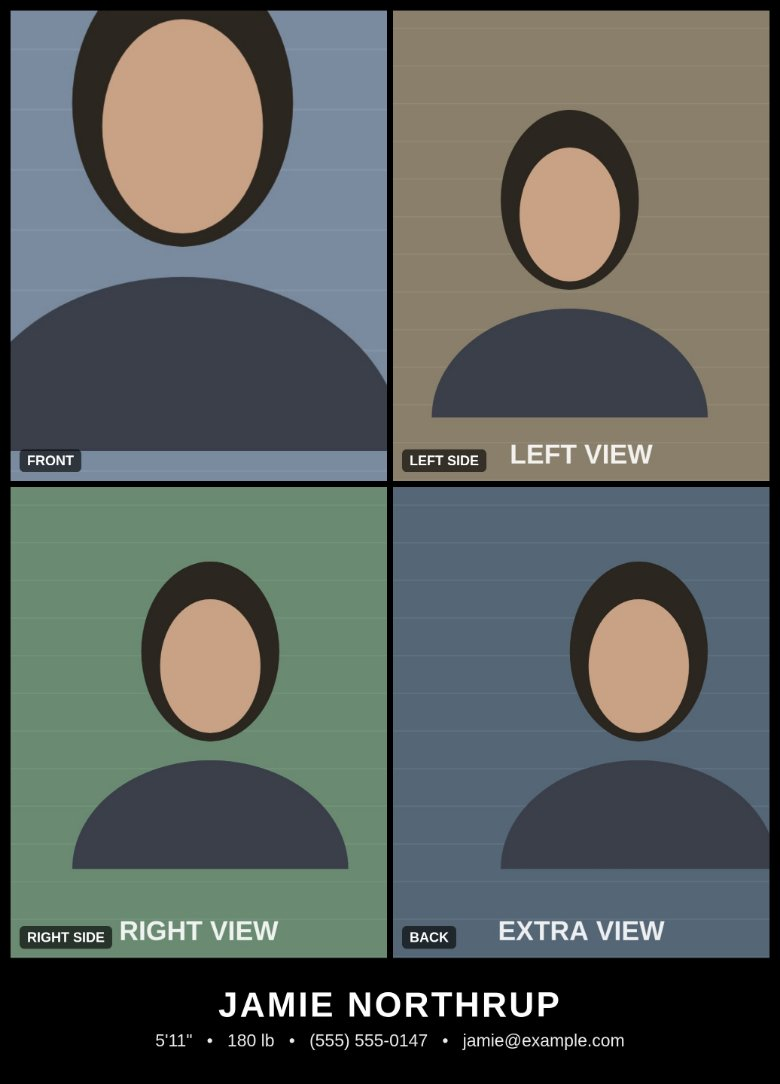
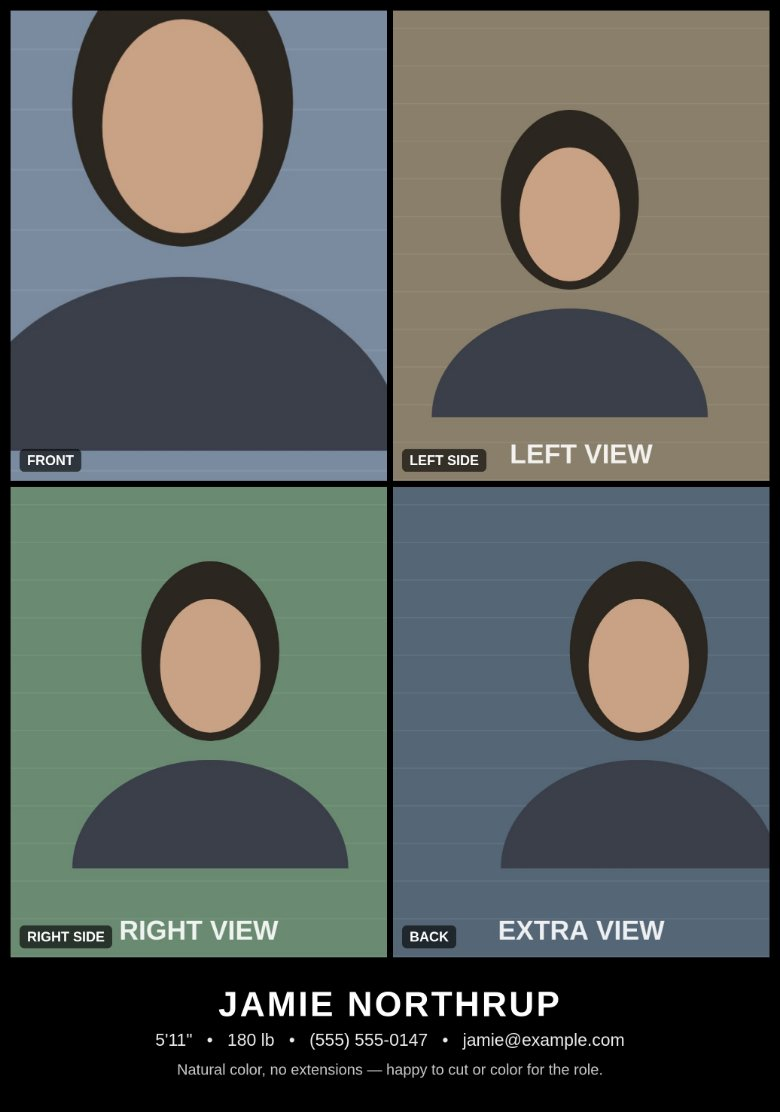
Add an optional short note to the sheet
A 140-character note field under the performer details, printed as a
third line in the black band below the photos — smaller and slightly
dimmer than the contact line, wrapping to a second line when needed
(ellipsized past that), with the band growing to fit.

The note belongs to the sheet rather than the person: it is kept out of
the profile fields, so a coordinator switching performers doesn't lose
what they typed, and it isn't persisted to the stored profile.

Adds word-wrap helpers to the composer, including hard-splitting of
words too long for one line.

Claude-Session: https://claude.ai/code/session_01GL7K5xWzgphC4TWdVwzMtx

diff --git a/public/js/composer.js b/public/js/composer.js
@@ -137,6 +137,58 @@ window.Composer = (function () {
     }
   }
 
+  /* Hard-split a word that is wider than the line all by itself. */
+  function splitLongWord(ctx, word, maxWidth) {
+    var parts = [];
+    var cur = '';
+    for (var i = 0; i < word.length; i++) {
+      var test = cur + word.charAt(i);
+      if (cur && ctx.measureText(test).width > maxWidth) {
+        parts.push(cur);
+        cur = word.charAt(i);
+      } else {
+        cur = test;
+      }
+    }
+    if (cur) parts.push(cur);
+    return parts;
+  }
+
+  /*
+   * Greedy word wrap at the current ctx.font, capped at maxLines.
+   * If the text still doesn't fit, the last line is ellipsized.
+   */
+  function wrapText(ctx, text, maxWidth, maxLines) {
+    var words = [];
+    String(text).split(/\s+/).filter(Boolean).forEach(function (w) {
+      if (ctx.measureText(w).width <= maxWidth) words.push(w);
+      else words.push.apply(words, splitLongWord(ctx, w, maxWidth));
+    });
+
+    var lines = [];
+    var cur = '';
+    words.forEach(function (w) {
+      var test = cur ? cur + ' ' + w : w;
+      if (!cur || ctx.measureText(test).width <= maxWidth) {
+        cur = test;
+      } else {
+        lines.push(cur);
+        cur = w;
+      }
+    });
+    if (cur) lines.push(cur);
+
+    if (lines.length <= maxLines) return lines;
+
+    lines = lines.slice(0, maxLines);
+    var last = lines[maxLines - 1];
+    while (last && ctx.measureText(last + '…').width > maxWidth) {
+      last = last.slice(0, -1).replace(/\s+$/, '');
+    }
+    lines[maxLines - 1] = last + '…';
+    return lines;
+  }
+
   /*
    * Build the final sheet. Returns a canvas:
    *   ┌─────────┬─────────┐
@@ -146,6 +198,7 @@ window.Composer = (function () {
    *   ├─────────────────────┤
    *   │  NAME               │  ← white on black, below the photos
    *   │  h • w • ph • email │
+   *   │  optional note      │
    *   └─────────────────────┘
    */
   function compose(slots, person, opts) {
@@ -192,16 +245,35 @@ window.Composer = (function () {
       }
     }
 
+    /* optional short note, wrapped to at most two lines */
+    var noteText = ((person && person.note) || '').trim().replace(/\s+/g, ' ');
+    var noteSize = 0;
+    var noteLines = [];
+    var noteW = Math.min(maxTextW, Math.round(W * 0.84));
+    if (noteText) {
+      noteSize = Math.round(CW * 0.040);
+      scratch.font = '400 ' + noteSize + 'px ' + FONT_STACK;
+      noteLines = wrapText(scratch, noteText, noteW, 2);
+    }
+
     var gapTop = Math.round(CW * 0.085);
     var gapBottom = Math.round(CW * 0.09);
     var lineGap = Math.round(CW * 0.022);
+    var noteGap = Math.round(CW * 0.036);
+    var noteLineGap = Math.round(noteSize * 0.34);
     var infoH = gapTop + gapBottom;
     if (nameSize) infoH += nameSize;
     if (nameSize && detailLines.length) infoH += lineGap;
     detailLines.forEach(function (l, i) {
       infoH += l.size + (i > 0 ? lineGap : 0);
     });
-    if (!nameSize && !detailLines.length) infoH = Math.round(CW * 0.04);
+    if (noteLines.length) {
+      if (nameSize || detailLines.length) infoH += noteGap;
+      noteLines.forEach(function (_, i) {
+        infoH += noteSize + (i > 0 ? noteLineGap : 0);
+      });
+    }
+    if (!nameSize && !detailLines.length && !noteLines.length) infoH = Math.round(CW * 0.04);
 
     var H = M + gridH + infoH;
 
@@ -267,6 +339,17 @@ window.Composer = (function () {
       ctx.fillText(l.text, W / 2, ty);
       ty += l.size;
     });
+
+    if (noteLines.length) {
+      if (nameSize || detailLines.length) ty += noteGap;
+      ctx.font = '400 ' + noteSize + 'px ' + FONT_STACK;
+      ctx.fillStyle = 'rgba(255,255,255,0.78)';
+      noteLines.forEach(function (line, i) {
+        if (i > 0) ty += noteLineGap;
+        ctx.fillText(line, W / 2, ty);
+        ty += noteSize;
+      });
+    }
 
     return canvas;
   }

diff --git a/public/js/app.js b/public/js/app.js
@@ -62,13 +62,19 @@
   var resultBox = $('#result');
   var resultImg = $('#result-img');
   var downloadLink = $('#download-link');
+  var noteInput = $('#f-note');
+  var noteCount = $('#note-count');
 
   var cells = {};          // key → { root, canvas, guide, dragDepth }
   var pendingSlot = null;  // slot waiting on the single-file picker
   var dragSourceKey = null;
   var resultUrl = null;
 
+  /* Profile fields — driven by the session user or a coordinator's pick.
+     The note is deliberately not one of them: it belongs to the sheet, not
+     the person, so switching performers leaves it alone. */
   var FIELDS = ['name', 'height', 'weight', 'phone', 'email'];
+  var NOTE_MAX = 140;
 
   /* ── photo grid ──────────────────────────────────────────────── */
 
@@ -433,6 +439,19 @@
     return o;
   }
 
+  /* Everything that gets printed on the sheet: profile fields plus the note. */
+  function readSheet() {
+    var o = readForm();
+    o.note = noteInput.value.trim();
+    return o;
+  }
+
+  function updateNoteCount() {
+    var used = noteInput.value.length;
+    noteCount.textContent = used ? used + ' / ' + NOTE_MAX : '';
+    noteCount.classList.toggle('near-limit', used > NOTE_MAX - 20);
+  }
+
   var persistProfile = debounce(function () {
     if (Api.isDemo && !state.performer) {
       Api.saveLocalProfile(Object.assign({ id: 'demo-me' }, readForm()));
@@ -637,7 +656,7 @@
   }
 
   function doCreate() {
-    var person = readForm();
+    var person = readSheet();
     var missing = SLOT_DEFS.filter(function (d) { return !state.slots[d.key]; });
 
     if (missing.length === 4) {
@@ -738,6 +757,9 @@
       if (!state.performer) state.me = Object.assign({}, state.me, readForm());
       persistProfile();
     });
+
+    noteInput.addEventListener('input', updateNoteCount);
+    updateNoteCount();
 
     createBtn.addEventListener('click', doCreate);
     $('#back-to-edit').addEventListener('click', function () {

diff --git a/public/css/styles.css b/public/css/styles.css
@@ -363,6 +363,16 @@ input:focus-visible, select:focus-visible, .btn:focus-visible {
 .field-wide { grid-column: 1 / -1; }
 .field label { font-size: 12.5px; font-weight: 600; color: var(--muted); }
 
+.field-opt { font-weight: 400; color: #6b7280; }
+
+.char-count {
+  justify-self: end;
+  font-size: 11.5px;
+  color: #6b7280;
+  font-variant-numeric: tabular-nums;
+}
+.char-count.near-limit { color: var(--warn); }
+
 /* ── Coordinator box ─────────────────────────────────────────────── */
 
 #coordinator-box { margin-top: 18px; }

diff --git a/public/index.html b/public/index.html
@@ -98,6 +98,14 @@
         <label for="f-email">Email</label>
         <input id="f-email" name="email" type="email" placeholder="you@example.com">
       </div>
+      <div class="field field-wide">
+        <label for="f-note">
+          Note <span class="field-opt">optional — a short line under your details</span>
+        </label>
+        <input id="f-note" name="note" type="text" maxlength="140"
+               placeholder="e.g. Natural color, no extensions — can cut or color">
+        <span class="char-count" id="note-count"></span>
+      </div>
     </form>
 
     <div id="coordinator-box"></div>

diff --git a/README.md b/README.md
@@ -21,6 +21,10 @@ JPEG.
   overlaid. What you see in the editor is exactly what's exported.
 - **Details bar** — name, height, weight, phone and email printed as white text on the black
   band *below* the photos (never over them). Empty fields are simply left out.
+- **Optional note** — a short line (up to 140 characters) under the details, for things like
+  "Natural color, no extensions — happy to cut or color". It wraps to a second line if needed,
+  sits slightly dimmer than the contact details, and the band grows to fit it. The note belongs
+  to the sheet rather than the person, so it stays put when a coordinator switches performers.
 - **Coordinator tools** — locked for regular users. Signed in as a coordinator, you get an
   autocomplete performer search; picking a performer swaps their details into the sheet
   (with a one-click "switch back to me"). By default the sheet always uses **your** info.
